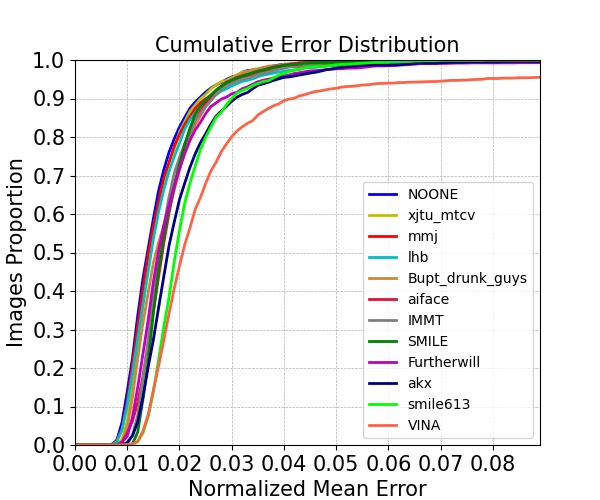
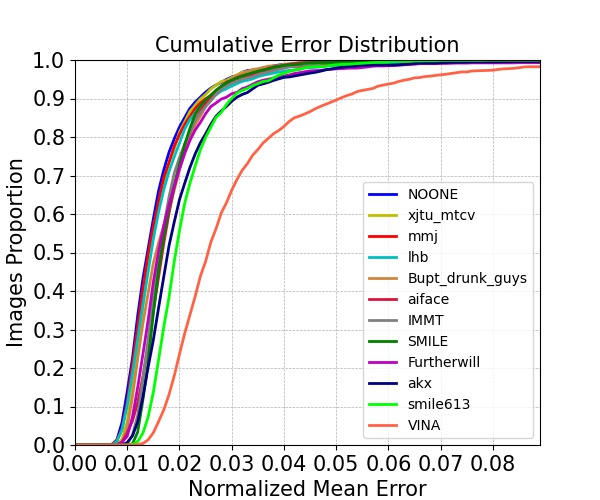
update leaderboard

diff --git a/leaderboard/index.html b/leaderboard/index.html
@@ -170,9 +170,9 @@
 <td align="center"> 12</td>
 <td align="center">VINA</td>
 <td align="center">HUST</td>
-<td align="center">67.84</td>
-<td align="center">4.80</td>
-<td align="center">1.94</td>
+<td align="center">62.49</td>
+<td align="center">2.65</td>
+<td align="center">1.93</td>
 </tr>
 <tr>
 <td align="center"></td>
